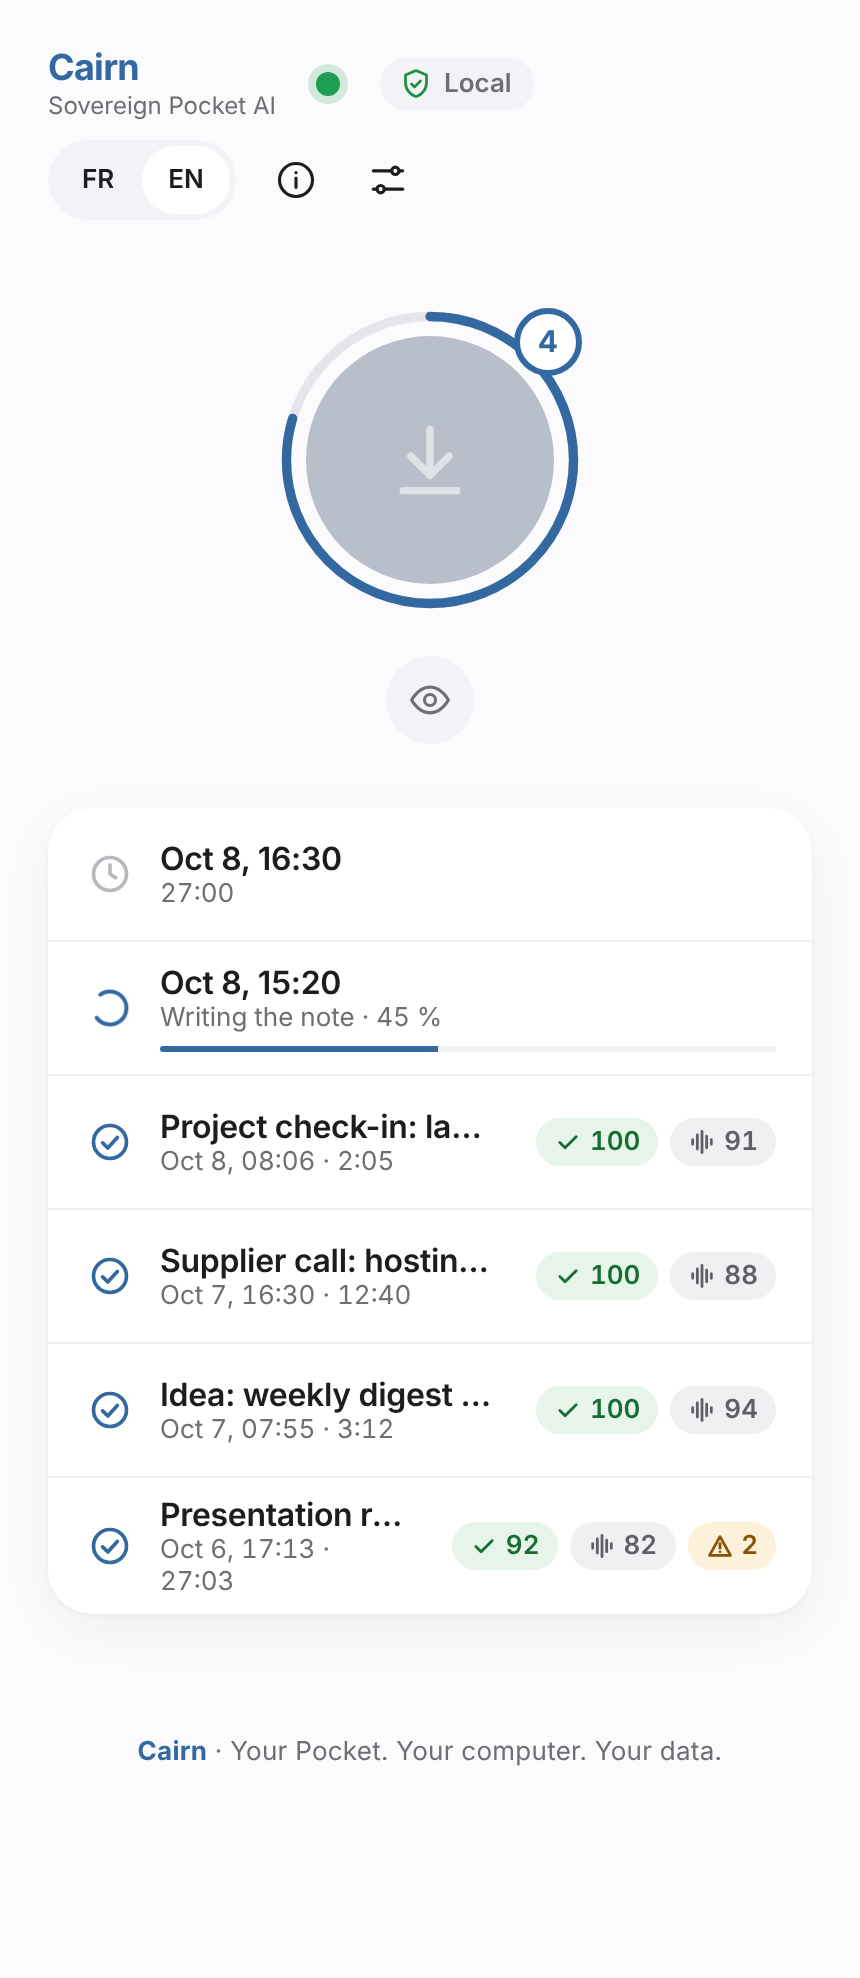
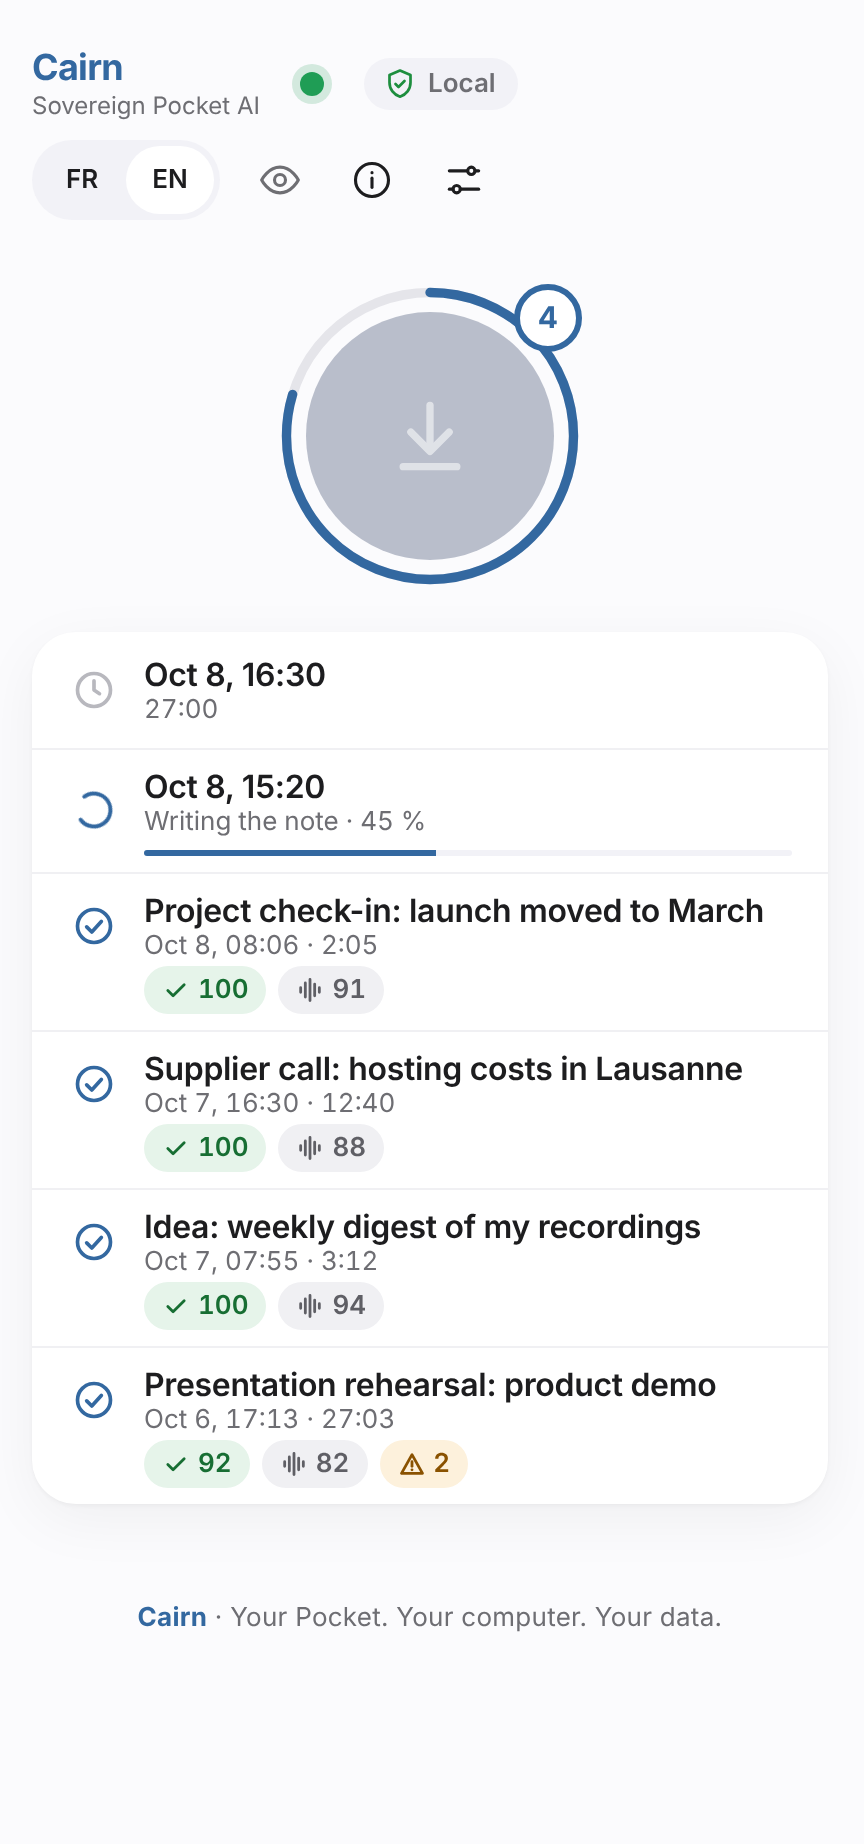
Web app: layout follows the window, secure mode button in the top bar, fitted window size
Two columns when wide, compact when short, readable on a phone. The secure mode button moves to the top bar and nothing shifts when it is used. The installed web app opens once at a size that fits. Screenshots regenerated.

Claude-Session: https://claude.ai/code/session_011cjUvj5utwUPtNVyi6uca5

diff --git a/cairn/web/app.js b/cairn/web/app.js
@@ -421,21 +421,20 @@
     var pt = t.localHint + ". " + t.privAuto + ": " + (!pv ? t.privNone : (pv.ok ? t.privOk + " · " + fmtDate(pv.when) : t.privBad));
     h += '<span class="pill"' + tip(pt) + ">" + I.shield(sc, 18) + esc(t.local) + "</span></div>";
     h += '<div class="row" style="gap:2px"><div style="margin-right:6px"' + tip(t.uiLang) + ">" + segLang("ui", ui(), "s34", t, "") + "</div>";
+    h += '<button type="button" class="ib plain' + (S.hidden ? " hiddenon" : "") + '" data-a="eye" aria-pressed="' + S.hidden + '"' + tip(S.hidden ? t.eyeShow : t.eyeHide) + ">" + (S.hidden ? I.eyeOff : I.eye) + "</button>";
     h += '<button type="button" class="ib plain' + bg(S.aboutOpen) + (st.update && st.update.available ? " upd" : "") + '" data-a="about"' + tip(t.about) + ">" + I.info + "</button>";
     h += '<button type="button" class="ib plain' + bg(S.settingsOpen) + '" data-a="settings"' + tip(t.settings) + ">" + I.gear + "</button></div></div>";
     if (S.settingsOpen) { h += viewSettings(t, st); }
     if (S.aboutOpen) { h += viewAbout(t); }
-    h += '<div class="hero"><div class="ring"' + (job.running ? tip(stepText(job, t)) : "") + '><svg class="arc" width="156" height="156" viewBox="0 0 100 100" aria-hidden="true"><circle cx="50" cy="50" r="46" fill="none" stroke="#E5E5EA" stroke-width="3"></circle>' +
+    h += '<div class="side"><div class="hero"><div class="ring"' + (job.running ? tip(stepText(job, t)) : "") + '><svg class="arc" width="156" height="156" viewBox="0 0 100 100" aria-hidden="true"><circle cx="50" cy="50" r="46" fill="none" stroke="#E5E5EA" stroke-width="3"></circle>' +
       '<circle cx="50" cy="50" r="46" fill="none" stroke="#3368A0" stroke-width="3" stroke-linecap="round" stroke-dasharray="' + (ring * 289).toFixed(1) + ' 289" transform="rotate(-90 50 50)"></circle></svg>';
     h += '<button type="button" class="import' + (job.running ? " busy" : "") + '" data-a="import"' + (canImport ? "" : " disabled") + tip(t.importHint) + ">" + I.downBig + "</button>";
     var todo = (st.pocket.new || 0) + (st.totals.waiting || 0);
     if (todo > 0) { h += '<span class="badge"' + tip(t.queueTip.replace("{n}", todo)) + ">" + todo + "</span>"; }
     h += "</div></div>";
-    h += '<div class="eye"><button type="button" class="ib' + (S.hidden ? " hiddenon" : "") + '" data-a="eye" aria-pressed="' + S.hidden + '"' + tip(S.hidden ? t.eyeShow : t.eyeHide) + ">" + (S.hidden ? I.eyeOff : I.eye) + "</button>";
-    if (S.hidden) { h += '<div class="note">' + esc(t.hiddenNote) + "</div>"; }
     if (!st.ollama) { h += '<div class="err">' + esc(t.modelDown) + "</div>"; }
     h += "</div>";
-    if (!S.hidden) { h += viewList(t, st); }
+    h += S.hidden ? '<div class="list veil">' + I.eyeOff + "<span>" + esc(t.hiddenNote) + "</span></div>" : viewList(t, st);
     h += '<footer class="foot"><b>Cairn</b> · ' + esc(t.tagline) + "</footer>";
     return h + "</main>";
   }
@@ -677,8 +676,18 @@
     if (ev.key === "Enter" && ev.target.id === "folderInput") { A.folderSave(); }
   });
 
+  function fitWindow() {  // the installed web app opens at a size that fits its content, once; the person's own resizing is kept after that
+    try {
+      if (!window.matchMedia("(display-mode: standalone)").matches || localStorage.getItem("cairn.fitted")) { return; }
+      localStorage.setItem("cairn.fitted", "1");
+      var w = Math.min(window.innerWidth, 980), h = Math.max(520, Math.min(window.innerHeight, document.documentElement.scrollHeight + 24, 760));
+      window.resizeTo(w + (window.outerWidth - window.innerWidth), h + (window.outerHeight - window.innerHeight));
+    } catch (e) { /* not allowed here: the window keeps its size */ }
+  }
+
   function loop() {
     refresh().then(function () {
+      if (S.server && !S.fitted) { S.fitted = true; setTimeout(fitWindow, 300); }
       if (!S.uiSaved && S.server) {  // the note language defaults to the interface language, so the server must know it
         S.uiSaved = true;
         if (!S.server.settings.ui) { api("POST", "/api/settings", { ui: ui() }); }

diff --git a/cairn/web/style.css b/cairn/web/style.css
@@ -104,3 +104,27 @@ h1.brand{margin:0;font-weight:700}.bw{display:flex;flex-direction:column;line-he
 .pl.g{color:#176E33;background:#E6F4EA}.pl.a{color:#8A5200;background:#FDF1DC}.pl.r{color:#A3221B;background:#FBE7E5}.pl.n{color:#5F5F65;background:#F0F0F3}
 .pls [data-tip]:hover:not(:has([data-tip]:hover))::after{left:auto;right:0;transform:none;white-space:normal;width:max-content;max-width:260px}
 .pbar.ind>span{width:35%;animation:pind 1.6s ease-in-out infinite}@keyframes pind{0%{margin-left:-35%}100%{margin-left:100%}}@media(prefers-reduced-motion:reduce){.pbar.ind>span{animation:none;width:100%;opacity:.35}}
+
+/* Layout follows the window: compact on a phone or a short window, two columns when it is wide */
+.wrap{gap:20px}
+.rowbtn{min-height:58px}
+.side{display:flex;flex-direction:column;align-items:center;gap:0}
+@media (max-height:760px){.ring{transform:scale(.8);margin:-16px 0}.hero{padding:0}.wrap{gap:14px;padding-top:16px}}
+@media (min-width:760px){
+  .wrap{max-width:1040px;display:grid;grid-template-columns:176px minmax(0,1fr);column-gap:32px;row-gap:20px;align-items:start;padding-left:32px;padding-right:32px}
+  .wrap>*{grid-column:1/-1}
+  .wrap>.side{grid-column:1;position:sticky;top:24px}
+  .wrap>.list{grid-column:2}
+  .wrap.solo>.side{grid-column:1/-1}
+  .wrap>.foot{margin:8px 0 0}
+}
+@media (max-width:480px){
+  .wrap{padding-left:16px;padding-right:16px}
+  .rowbtn{flex-wrap:wrap;row-gap:2px}
+  .rowbtn .mid{flex:1 1 calc(100% - 40px)}
+  .rowbtn .pls{margin:0 0 0 36px;flex:0 0 100%}
+}
+.ib.hiddenon{background:var(--orange-bg)}
+.veil{display:flex;align-items:center;justify-content:center;gap:10px;min-height:168px;padding:24px;color:var(--mute);font-size:14px;font-weight:500;text-align:center}
+.veil svg{width:20px;height:20px;opacity:.7}
+.side .err{margin-top:10px;text-align:center}
